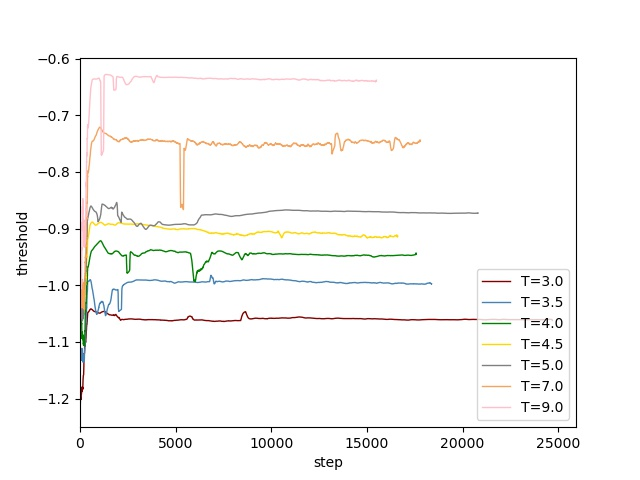
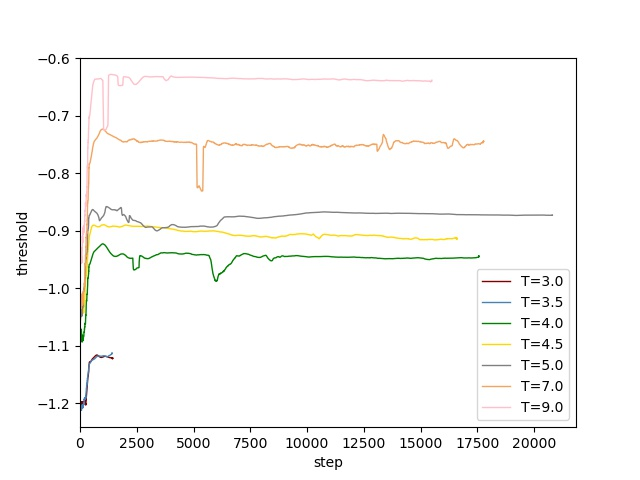
remain to do : random seed to plot mean & std

diff --git a/nqubit/plot/plot.py b/nqubit/plot/plot.py
@@ -6,7 +6,7 @@ import matplotlib.pyplot as plt
 from tensorboard.backend.event_processing.event_accumulator import EventAccumulator
 
 smooth = True
-smooth_index = 100 # [0, max)
+smooth_index = 150 # [0, max)
 threshold_len = 0 # == 10000??????????
 linewidth = 1.0
 
@@ -16,10 +16,12 @@ def plot_func(dir, color, label):
         event.Reload()
         threshold = event.scalars.Items('threshold')
         threshold_len = len(threshold)
+        print("current_dir: ", dir)
+        print("threshold_len: ", threshold_len)
         tmp_threshold = np.zeros(threshold_len)
         for i in range(len(threshold)): # average with the behind
             # threshold.value = threshold[i:i+smooth_index].value
-            # print(threshold[i])
+            # print("(threshold[i].step, threshold[i].value): ", (threshold[i].step, threshold[i].value))
             tmp_threshold[i] = (np.array([j.value for j in threshold[i:i+smooth_index]])).mean()
         # !!! threshold and tmp_threshold
         plt.plot([i.step for i in threshold], tmp_threshold, color=color, label=label, linewidth=linewidth) 
@@ -30,7 +32,7 @@ def plot_func(dir, color, label):
         plt.plot([i.step for i in threshold], [i.value for i in threshold], color=color, label=label, linewidth=linewidth)
         return
 
-dir = "/home/pami/ZeroRL/nqubit/results/sac_energy_new/nbit-6/T-3.000/events.out.tfevents.1607676640.pami12"
+dir = "/home/pami/ZeroRL/nqubit/results/sac_energy_new/nbit-5/T-1.450seed-5/events.out.tfevents.1608019729.pami12"
 event = EventAccumulator(dir)
 event.Reload()
 print("\n\n")
@@ -59,7 +61,7 @@ plot_func(dir=dir, color='maroon', label='T=3.0')
 # ax1.plot([i.step for i in acc],[i.value for i in acc],label='acc')
 
 
-dir2 = "/home/pami/ZeroRL/nqubit/results/sac_energy_new/nbit-6/T-3.500/events.out.tfevents.1607686863.pami12"
+dir2 = "/home/pami/ZeroRL/nqubit/results/sac_energy_new/nbit-5/T-1.450seed-6/events.out.tfevents.1608019741.pami12"
 plot_func(dir=dir2, color='steelblue', label='T=3.5')
 
 dir3 = "/home/pami/ZeroRL/nqubit/results/sac_energy_new/nbit-6/T-4.000/events.out.tfevents.1607686837.pami12"
@@ -87,11 +89,17 @@ plt.savefig('original.jpg')
 plt.xlim(0, 15000)
 plt.savefig('truncation_x.jpg')
 
+plt.xlim(0, 10000)
+plt.savefig('truncation_8000_.jpg')
+
+plt.xlim(0, 8000)
+plt.savefig('truncation_8000_.jpg')
+
 plt.xlim(0, 3000)
-plt.savefig('truncation_3000_-2.jpg')
+plt.savefig('truncation_3000_.jpg')
 
 plt.xlim(0, 1000)
-plt.savefig('truncation_1000_-2.jpg')
+plt.savefig('truncation_1000_.jpg')
 
 
 

diff --git a/nqubit/Train_SAC.py b/nqubit/Train_SAC.py
@@ -29,7 +29,7 @@ if __name__ == '__main__':
 
     #exp_name = 'steps-' + str(args.max_episode_steps) + 'actor_hidden_size-' + str(args. actor_hidden_size) + 'gamma-' + str(args.gamma) + 'batch_size-' + str(args.batch_size) + 'T2.50' 
 
-    exp_name = '/T-' + str(format(args.T, '.3f'))
+    exp_name = '/T-' + str(format(args.T, '.3f')) + 'seed-' + str(args.seed)
     log_dir = current_dir + train_log_dir + exp_name
     
     writer = SummaryWriter(log_dir)

diff --git a/nqubit/utils/nqbit_parameters.py b/nqubit/utils/nqbit_parameters.py
@@ -6,7 +6,7 @@ def get_args():
 
     # Env Specification
     parser.add_argument('--nbit', type=int, default=5)
-    parser.add_argument('--T', type=float, default=2.50)
+    parser.add_argument('--T', type=float, default=1.63)
     parser.add_argument('--GPU', type=int, default=0)
     
     # seed
